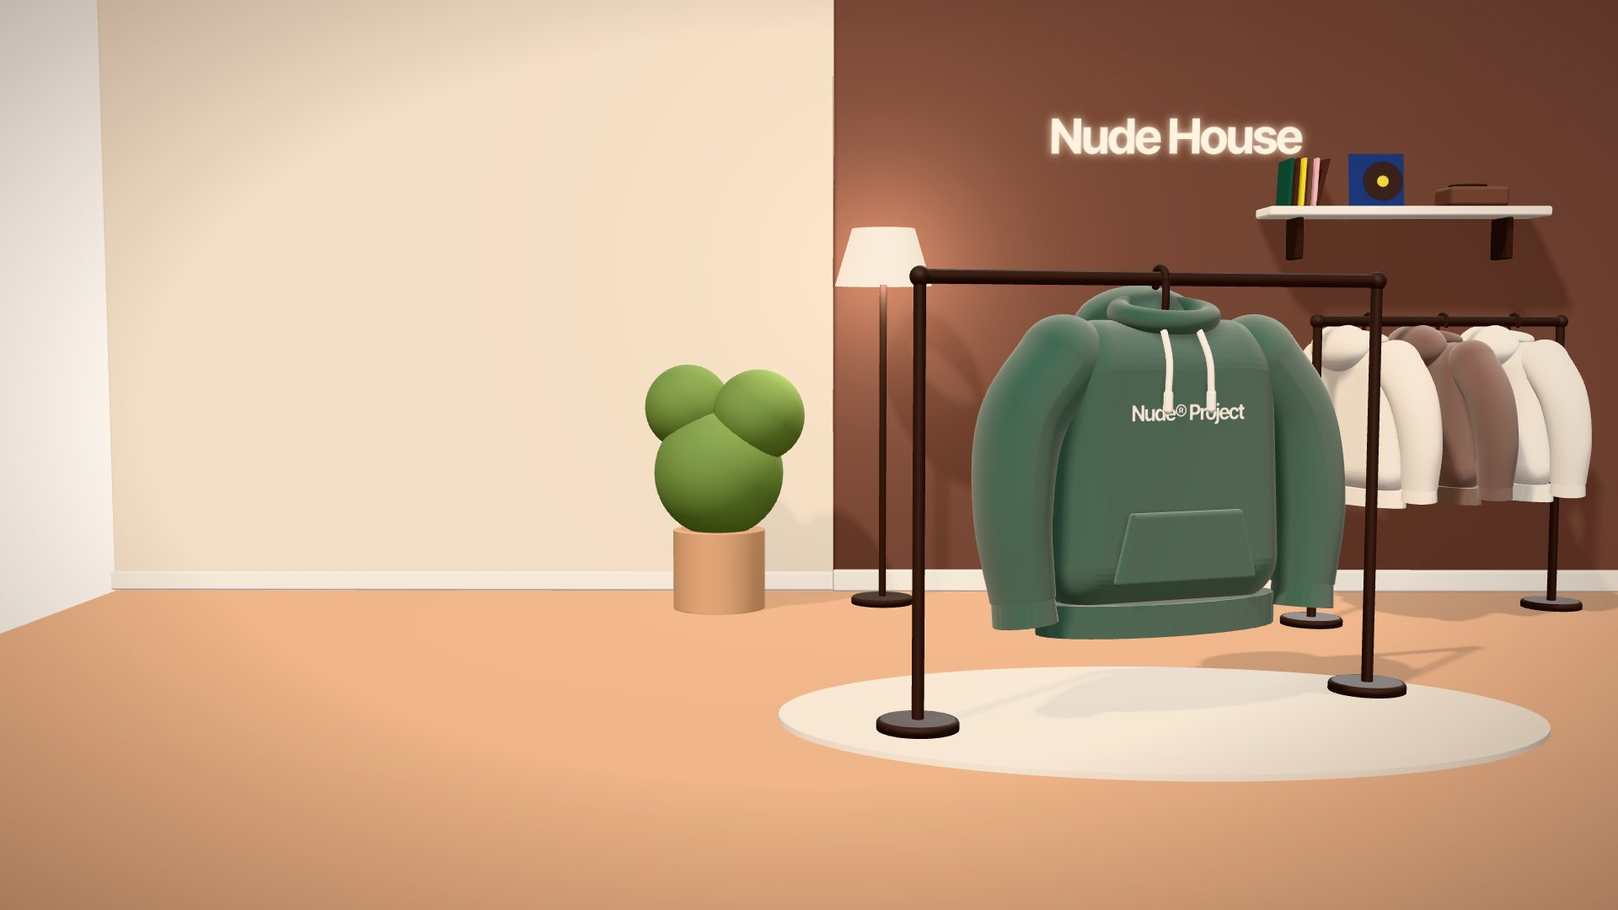
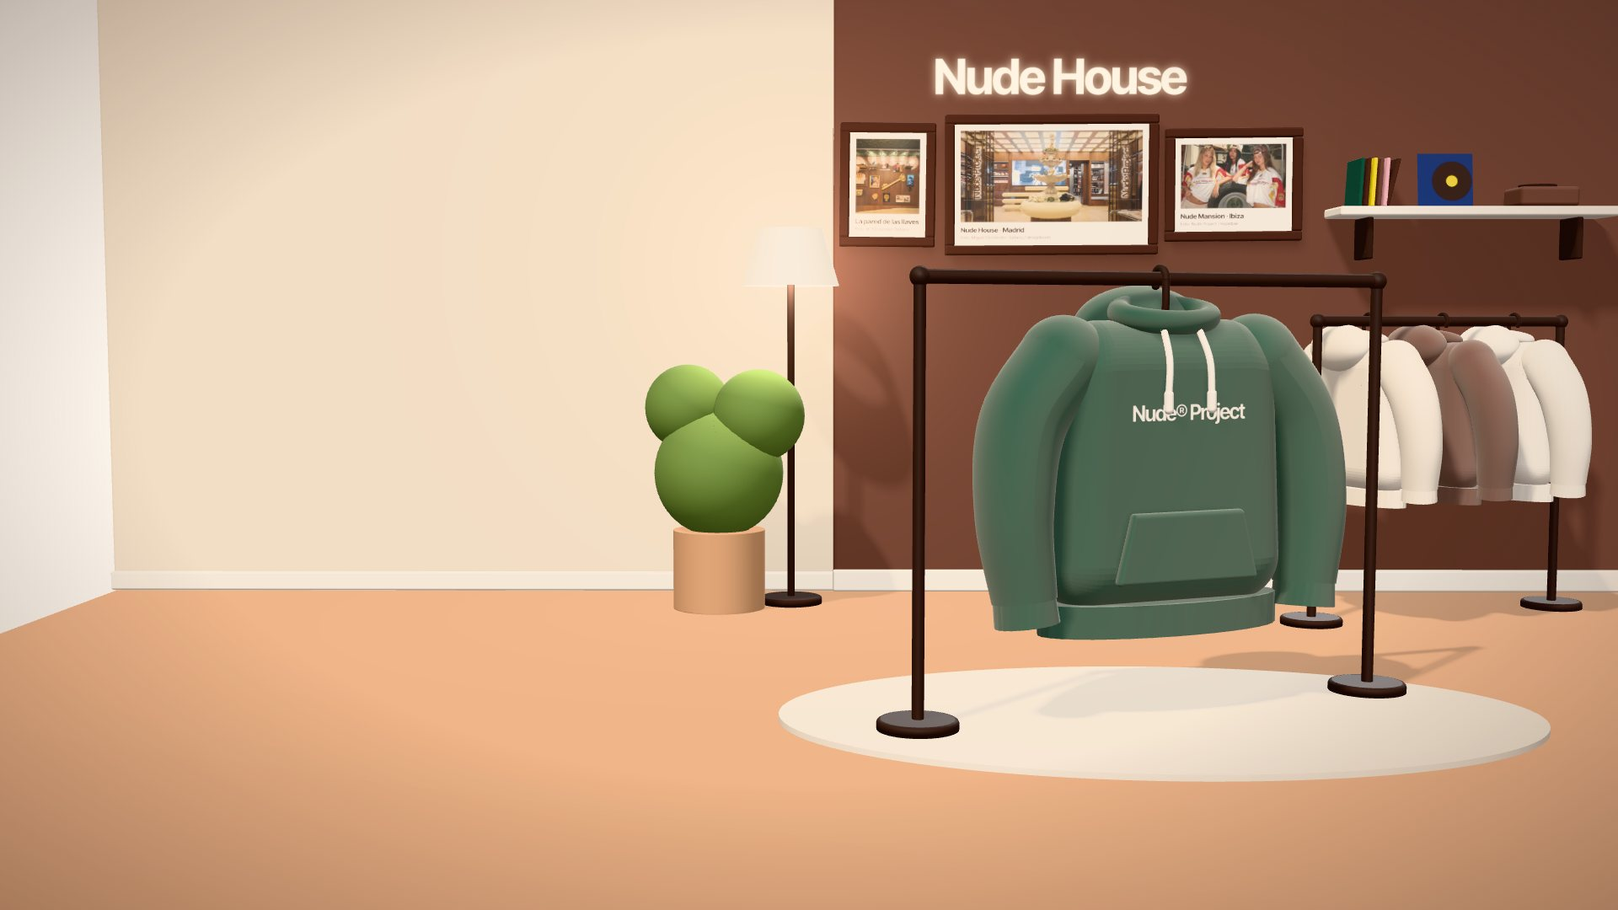
Presentación: pared de cuadros con fotos de la Nude House y de Ibiza (#37)
Las fotos no se pegan sobre la diapositiva: cuelgan enmarcadas en la
pared del salón de la escena 3D, con marco de clay en relieve, vidrio
con reflejo, revelado cálido y el lugar y el crédito impresos en el
paspartú. Una diapositiva nueva del bloque 4 ("Del salón al feed")
acerca la cámara a los cuadros. Se quita el cartel de pendiente y los
estilos del marcador, que ya no se usaban.

- Fotos: dos de designboom (Miguel Fernández-Galiano) y una de Hypebae,
  con sus fuentes en media/README.md y en feeds.json (experiencial).
- El neón corona los cuadros; el estante y la lámpara se corren.
- Renders del bloque 4 regenerados (experiencial y experiencial-fotos).

Changed region(s): [[0.4062, 0.0611, 1.0, 0.6722], [0.7188, 0.4278, 0.7812, 0.4583]]

diff --git a/design-system/escena/mundo.js b/design-system/escena/mundo.js
@@ -14,7 +14,7 @@ import * as THREE from 'three';
 import { RoundedBoxGeometry } from 'three/addons/geometries/RoundedBoxGeometry.js';
 import { colores3d, grupos, tokens } from '../tokens.js';
 import { crearSudadera } from './sudadera.js';
-import { feed, publicacionViral, cartelTienda, neonNudeHouse, etiquetaEnvio, lienzo } from './pantallas.js';
+import { feed, publicacionViral, cartelTienda, neonNudeHouse, etiquetaEnvio, copiaEnmarcada, lienzo } from './pantallas.js';
 
 const C = colores3d;
 const P = C.presentacion;
@@ -483,14 +483,65 @@ function estacionViral(g, { feeds: datos } = {}) {
   };
 }
 
-function estacionExperiencial(g) {
+/** Reflejo diagonal suave para los vidrios (la vidriera de Drop Rush y los cuadros). */
+let texturaReflejo;
+function reflejo() {
+  texturaReflejo ??= lienzo(256, 256, (ctx, w, h) => {
+    const gr = ctx.createLinearGradient(0, 0, w, h);
+    gr.addColorStop(0.25, 'rgba(255,255,255,0)'); gr.addColorStop(0.42, 'rgba(255,255,255,.22)');
+    gr.addColorStop(0.5, 'rgba(255,255,255,.05)'); gr.addColorStop(0.62, 'rgba(255,255,255,.14)'); gr.addColorStop(0.75, 'rgba(255,255,255,0)');
+    ctx.clearRect(0, 0, w, h); ctx.fillStyle = gr; ctx.fillRect(0, 0, w, h);
+  });
+  return texturaReflejo;
+}
+
+/**
+ * Cuadro colgado: marco de varillas con relieve (proyectan sombra sobre la copia), la copia con su paspartú y un
+ * vidrio con reflejo. w × h es el tamaño exterior; el frente de la pared queda en z = 0 del grupo.
+ */
+function cuadro(foto, w, h, { marco = C.marca.cacao, perfil = 0.07, fondoMarco = 0.06 } = {}) {
+  const g = new THREE.Group();
+  g.add(caja(w, h, 0.02, marco, 0, -h / 2, 0.01, 0.01)); // fondo
+  for (const lado of [-1, 1]) {
+    g.add(caja(w, perfil, fondoMarco, marco, 0, lado * (h - perfil) / 2 - perfil / 2, fondoMarco / 2, 0.018));
+    g.add(caja(perfil, h - 2 * perfil + 0.002, fondoMarco, marco, lado * (w - perfil) / 2, -h / 2 + perfil - 0.001, fondoMarco / 2, 0.018));
+  }
+  const iw = w - 2 * perfil, ih = h - 2 * perfil;
+  const copia = new THREE.Mesh(new THREE.PlaneGeometry(iw, ih), new THREE.MeshStandardMaterial({ map: copiaEnmarcada(foto, iw, ih), roughness: 0.62 }));
+  copia.position.z = 0.021;
+  copia.receiveShadow = true;
+  const vidrio = new THREE.Mesh(new THREE.PlaneGeometry(iw, ih), new THREE.MeshBasicMaterial({ map: reflejo(), transparent: true, depthWrite: false, opacity: 0.4 }));
+  vidrio.position.z = fondoMarco - 0.012;
+  vidrio.renderOrder = 3;
+  g.add(copia, vidrio);
+  return g;
+}
+
+/** Fotos de los cuadros del salón; la presentación las reemplaza por las de datos/feeds.json (experiencial). */
+const fotosCasa = [
+  { lugar: 'Nude House · Madrid' },
+  { lugar: 'La pared de las llaves' },
+  { lugar: 'Nude Mansion · Ibiza' },
+];
+
+function estacionExperiencial(g, { feeds: datos } = {}) {
   // Piso de madera, pared clara detrás del texto y pared de acento marrón (el tono de la tienda) detrás de la prenda.
   habitacion(g, { x0: -7, x1: 7, piso: P['casa-piso'], pared: C.juego['fachada-1'] });
   g.add(fondo(caja(8.6, 6, 0.32, P['casa-pared'], 2.7, -0.3, -4.24, 0.04)));
   g.add(fondo(caja(8.6, 0.16, 0.07, C.marca.crema, 2.7, 0, -4.045, 0.02))); // más alto y profundo que el de la pared clara: no comparten caras
   const neon = new THREE.Mesh(new THREE.PlaneGeometry(2.4, 0.6), new THREE.MeshBasicMaterial({ map: neonNudeHouse(), transparent: true, toneMapped: false, depthWrite: false }));
-  neon.position.set(0.9, 3.35, -4.06);
+  neon.position.set(0.05, 3.78, -4.06); // corona la pared de cuadros
   g.add(fondo(neon));
+  // Pared de cuadros: la Nude House de Madrid, la pared de las llaves y la Mansion de Ibiza (pose "fotos").
+  const fotos = (datos?.experiencial?.fotos?.length ? datos.experiencial.fotos : fotosCasa).slice(0, 3);
+  const colgar = [[1.56, 1.02, 0, 3.0], [0.7, 0.9, -1.2, 3.0], [1.0, 0.82, 1.33, 3.0]]; // ancho, alto, x, y (centro)
+  fotos.forEach((foto, i) => {
+    const [w, h, x, y] = colgar[i];
+    const c = cuadro(foto, w, h);
+    c.position.set(x, y, -4.08);
+    c.rotation.z = [0.004, -0.01, 0.008][i]; // apenas torcidos, colgados a mano
+    g.add(fondo(c)); // decoran la pared, como el neón
+  });
   // Alfombra redonda bajo el perchero de la protagonista.
   const alfombra = cilindro(1.9, 0.03, C.marca.arena, 0, 0, 0.1, 96);
   alfombra.scale.z = 0.62;
@@ -551,7 +602,7 @@ function estacionExperiencial(g) {
   estante.add(disco);
   estante.add(caja(0.42, 0.14, 0.34, C.marca['cacao-suave'], 0.5, 0.07, 0, 0.03)); // tocadiscos
   estante.add(cilindro(0.13, 0.02, metal, 0.47, 0.21, 0, 48));
-  estante.position.set(2.5, 2.75, -3.87);
+  estante.position.set(3.0, 2.75, -3.87);
   g.add(estante);
   // Planta en maceta en el rincón y lámpara de pie con luz cálida.
   const planta = new THREE.Group();
@@ -563,12 +614,21 @@ function estacionExperiencial(g) {
   lampara.add(pedestal(metal, 0.22, 0.05, 0.02), varilla(V(0, 0.04, 0), V(0, 2.3, 0), 0.025, metal));
   const pantalla = malla(new THREE.CylinderGeometry(0.22, 0.34, 0.4, 48, 1, true), clay(C.marca.crema, { side: THREE.DoubleSide, emissive: P.foco, emissiveIntensity: 0.35 }), 0, 2.45, 0);
   lampara.add(pantalla);
-  lampara.position.set(-1.25, 0, -3.5);
+  lampara.position.set(-1.9, 0, -3.5); // en la esquina, fuera de la pared de cuadros
   g.add(lampara);
   const luz = new THREE.PointLight(P.foco, 6, 6, 2);
-  luz.position.set(-1.25, 2.4, -3.3);
+  luz.position.set(-1.9, 2.4, -3.3);
   g.add(luz);
-  return { tema: 'crema', encuadre: 'editorial', ancla, escala, calida: true, giroReposo: giro, percha: { pivote, gancho }, entradaFrontal: true, actualizar() {} };
+  return {
+    tema: 'crema', encuadre: 'editorial', ancla, escala, calida: true, giroReposo: giro, percha: { pivote, gancho }, entradaFrontal: true,
+    poses: {
+      // La cámara sube por encima del perchero y queda de frente a la pared de cuadros, con el neón arriba; la
+      // prenda queda detrás de la cámara. Desvíos desde el encuadre editorial: mira en (-1.75, 1.32, 0) y cámara en
+      // (-1.75, 1.92, 8.5).
+      fotos: { mira: V(1.35, 1.53, -4.09), camara: V(1.35, 1.13, -7.09) },
+    },
+    actualizar() {},
+  };
 }
 
 function estacionMetricas(g) {
@@ -698,13 +758,7 @@ function estacionDropRush(g) {
   fachada.add(cartel);
   g.add(fondo(fachada));
   // Vidrio con un reflejo diagonal suave.
-  const reflejo = lienzo(256, 256, (ctx, w, h) => {
-    const gr = ctx.createLinearGradient(0, 0, w, h);
-    gr.addColorStop(0.25, 'rgba(255,255,255,0)'); gr.addColorStop(0.42, 'rgba(255,255,255,.22)');
-    gr.addColorStop(0.5, 'rgba(255,255,255,.05)'); gr.addColorStop(0.62, 'rgba(255,255,255,.14)'); gr.addColorStop(0.75, 'rgba(255,255,255,0)');
-    ctx.clearRect(0, 0, w, h); ctx.fillStyle = gr; ctx.fillRect(0, 0, w, h);
-  });
-  const vidrio = new THREE.Mesh(new THREE.PlaneGeometry(4.4, 3.1), new THREE.MeshBasicMaterial({ map: reflejo, transparent: true, depthWrite: false, opacity: 0.55 }));
+  const vidrio = new THREE.Mesh(new THREE.PlaneGeometry(4.4, 3.1), new THREE.MeshBasicMaterial({ map: reflejo(), transparent: true, depthWrite: false, opacity: 0.55 }));
   vidrio.position.set(0, 2.05, -0.9);
   vidrio.renderOrder = 3;
   g.add(fondo(vidrio));

diff --git a/presentacion/index.html b/presentacion/index.html
@@ -185,11 +185,23 @@
           <span class="np-revelar__linea" style="--i: 2"><span>tienda.</span></span>
         </h2>
         <p class="np-capa__entra">Nude House en Madrid, el Château en Ibiza y las pop-ups en Estados Unidos.</p>
-        <span class="marcador np-capa__entra">Pendiente · Fotos de la Nude House y del Château (fase 5)</span>
       </div>
       <aside class="notas">
-        <p><em>La sudadera queda colgada de una percha en el salón de la Nude House.</em></p>
-        <p>“Ahora, el mundo físico. Para Nude Project una tienda no es solo un lugar de venta: es un espacio de encuentro. Pasa en la <b>Nude House</b> de Madrid y en cada apertura: la música es una selección de la marca, la misma de su lista de Spotify, y la cola con la llave de coleccionista ya es parte del ritual.</p>
+        <p><em>La sudadera queda colgada de una percha en el salón de la Nude House; detrás, la pared de cuadros.</em></p>
+        <p>“Ahora, el mundo físico. Para Nude Project una tienda no es solo un lugar de venta: es un espacio de encuentro. <em><kbd>→</kbd>: la cámara se acerca a los cuadros.</em></p>
+      </aside>
+    </section>
+
+    <section class="np-capa np-diapo np-diapo--escena np-capa--abajo" data-escena="experiencial" data-pose="fotos">
+      <div class="np-diapo__texto">
+        <span class="np-etiqueta np-capa__entra">04 — La casa</span>
+        <h2 class="np-titulo np-revelar">
+          <span class="np-revelar__linea" style="--i: 0"><span>Del salón al feed.</span></span>
+        </h2>
+      </div>
+      <aside class="notas">
+        <p><em>La cámara se acerca a la pared de cuadros: la Nude House de Madrid en el centro, la pared de las llaves a la izquierda y la Mansion de Ibiza a la derecha (fuentes en <code>media/README.md</code>).</em></p>
+        <p>Pasa en la <b>Nude House</b> de Madrid y en cada apertura: la música es una selección de la marca, la misma de su lista de Spotify, y la cola con la llave de coleccionista ya es parte del ritual.</p>
         <p>El evento más ambicioso es el <b>Nude Project Château</b>, en una mansión de Ibiza. Empezó en 2024 y ya va por su tercera edición. En 2025 reunió a más de 30 artistas, actores, deportistas e influencers que sumaban más de 70 millones de seguidores, con una regla: lo que pasa en la mansión se queda en la mansión. Eso genera misterio y exclusividad, y funciona casi como un reality de marca. Además, en la web se pueden comprar los looks que aparecen en las imágenes: el contenido se conecta directo con la venta. Las dos primeras ediciones superaron los 100 millones de interacciones.</p>
         <p>Esa lógica la llevaron a Estados Unidos, con pop-ups en Miami, Los Ángeles y Nueva York. La de Nueva York reunió a unas 400 personas en la apertura y fue la pop-up más vendida de su historia, con moda, música, cine, deporte y hasta una carrera en ropa interior de la marca.</p>
         <p>¿Cómo fortalece esto a la comunidad digital? Es un círculo: el evento genera contenido, el contenido atrae gente a la comunidad y esa comunidad vuelve a las tiendas y a los drops. Hoy el canal físico ya es el 35 % de la facturación.”</p>

diff --git a/design-system/escena/pantallas.js b/design-system/escena/pantallas.js
@@ -381,6 +381,52 @@ export function publicacionViral({ archivo } = {}) {
   return tex;
 }
 
+/**
+ * Copia enmarcada para los cuadros de la Nude House: la foto con un revelado cálido (para que conviva con el clay sin
+ * parecer pegada encima) y, debajo, el paspartú crema con el lugar y el crédito impresos, como en una galería.
+ * foto: { lugar, credito, archivo }. Si no hay archivo o no carga, el nombre del lugar sobre marrón.
+ * ancho × alto es el tamaño de la copia en metros: el margen, el pie y la letra miden lo mismo en todos los cuadros.
+ */
+export function copiaEnmarcada(foto, ancho, alto, { px = 1024 } = {}) {
+  const k = px / ancho; // píxeles por metro
+  const w = px, h = Math.round(alto * k);
+  const m = 0.045 * k, pie = 0.17 * k; // margen del paspartú y alto del pie
+  const fw = w - 2 * m, fh = h - m - pie; // la foto
+  let t = null; // lienzo() ya dibuja una vez al crearla, antes de que t exista
+  t = lienzo(w, h, (ctx) => {
+    ctx.fillStyle = M.crema; ctx.fillRect(0, 0, w, h);
+    ctx.save(); ctx.translate(m, m); ctx.beginPath(); ctx.rect(0, 0, fw, fh); ctx.clip();
+    if (t?.media?.listo) {
+      ctx.filter = 'saturate(.86) contrast(.94) brightness(1.03)';
+      cubrir(ctx, t.media, fw, fh);
+      ctx.filter = 'none';
+      // Revelado: un velo cálido en multiplicar y una viñeta suave, la misma luz de la lámpara del salón.
+      ctx.globalCompositeOperation = 'multiply';
+      ctx.fillStyle = 'rgba(255,226,190,.32)'; ctx.fillRect(0, 0, fw, fh);
+      ctx.globalCompositeOperation = 'source-over';
+      const v = ctx.createRadialGradient(fw / 2, fh / 2, Math.min(fw, fh) * 0.35, fw / 2, fh / 2, Math.hypot(fw, fh) * 0.62);
+      v.addColorStop(0, 'rgba(46,25,20,0)'); v.addColorStop(1, 'rgba(46,25,20,.32)');
+      ctx.fillStyle = v; ctx.fillRect(0, 0, fw, fh);
+    } else {
+      ctx.fillStyle = M['cacao-suave']; ctx.fillRect(0, 0, fw, fh);
+      ctx.fillStyle = M.arena; ctx.textAlign = 'center'; ctx.textBaseline = 'middle';
+      ctx.font = fuente(800, 0.06 * k); espaciado(ctx, -0.002 * k); ctx.fillText(foto.lugar ?? '', fw / 2, fh / 2);
+    }
+    ctx.restore();
+    // Bisel del paspartú: una línea de sombra alrededor del corte.
+    ctx.strokeStyle = 'rgba(46,25,20,.18)'; ctx.lineWidth = 0.003 * k; ctx.strokeRect(m, m, fw, fh);
+    // Pie: el lugar y, debajo, el crédito.
+    ctx.fillStyle = M.cacao; ctx.textBaseline = 'alphabetic'; ctx.textAlign = 'left';
+    ctx.font = fuente(800, 0.05 * k); espaciado(ctx, -0.001 * k); ctx.fillText(foto.lugar ?? '', m, m + fh + 0.074 * k);
+    if (foto.credito) {
+      ctx.globalAlpha = 0.7; ctx.font = fuenteTexto(500, 0.03 * k); espaciado(ctx, 0);
+      ctx.fillText(foto.credito, m, m + fh + 0.122 * k); ctx.globalAlpha = 1;
+    }
+  });
+  t.media = cargarMedia(foto.archivo, () => t.redibujar());
+  return t;
+}
+
 export function cartelTienda() {
   return lienzo(1024, 220, (ctx, w, h) => {
     ctx.fillStyle = M.cacao; ctx.fillRect(0, 0, w, h);

diff --git a/presentacion/estilos.css b/presentacion/estilos.css
@@ -11,18 +11,6 @@ body { display: grid; place-items: center; }
 /* Etiquetas de la vista desarmada dentro de su diapositiva: se ubican sobre todo el escenario. */
 .np-capa .np-etiquetas { position: absolute; inset: 0; }
 
-/* Marcador de contenido pendiente (plantilla de la fase 1): se reemplaza por el componente real. */
-.marcador {
-  align-self: flex-start;
-  padding: 0.7em 1em;
-  border: 1px dashed currentColor;
-  font: var(--np-peso-medio) 0.95cqw / 1.3 var(--np-fuente-texto);
-  letter-spacing: var(--np-interletra-etiqueta);
-  text-transform: uppercase;
-  color: var(--np-tinta-suave);
-}
-.np-capa.np-diapo--activa .marcador.np-capa__entra { opacity: 0.75; }
-
 /* ============ Portada: título abajo a la izquierda y lugar del QR abajo a la derecha ============ */
 .portada__pie { display: flex; justify-content: space-between; align-items: flex-end; gap: 4cqw; }
 .np-capa .portada__titulo .np-titulo { font-size: 4.6cqw; }
@@ -166,6 +154,5 @@ body { display: grid; place-items: center; }
 [data-impresion] :is(.hype, .ingreso, .votacion, .votacion-estado, .sala-juego) { display: none; }
 [data-impresion] .np-capa * { animation: none !important; transition: none !important; }
 [data-impresion] .np-capa .np-capa__entra { opacity: 1; transform: none; }
-[data-impresion] .np-capa .marcador { opacity: 0.75; }
 [data-impresion] .np-etiquetas { display: none; } /* ya están en la imagen de respaldo */
 @media print { [data-impresion] .np-capas { gap: 0; } }

diff --git a/presentacion/deck.js b/presentacion/deck.js
@@ -45,14 +45,14 @@ if (!imprimiendo) {
   }
 }
 /**
- * Publicaciones de los feeds de EGC vs. UGC y de la pared viral (datos/feeds.json). Las rutas de fotos y clips son relativas al
+ * Publicaciones de los feeds de EGC vs. UGC, de la pared viral y de los cuadros de la Nude House (datos/feeds.json). Las rutas de fotos y clips son relativas al
  * archivo. Si no se puede leer, el motor usa las publicaciones de prueba del design system.
  */
 async function leerFeeds() {
   const url = new URL('./datos/feeds.json', location.href);
   try {
     const datos = await (await fetch(url)).json();
-    for (const pub of [...(datos.egc ?? []), ...(datos.ugc ?? []), datos.viral]) if (pub?.archivo) pub.archivo = new URL(pub.archivo, url).href;
+    for (const pub of [...(datos.egc ?? []), ...(datos.ugc ?? []), datos.viral, ...(datos.experiencial?.fotos ?? [])]) if (pub?.archivo) pub.archivo = new URL(pub.archivo, url).href;
     return datos;
   } catch (error) {
     console.warn('No se pudo leer datos/feeds.json: se usan las publicaciones de prueba', error);

diff --git a/presentacion/presentador.html b/presentacion/presentador.html
@@ -26,7 +26,6 @@
     .miniatura .np-capa { visibility: visible; background: var(--np-fondo) var(--respaldo, none) center / cover no-repeat; }
     .miniatura .np-capa * { animation: none !important; transition: none !important; }
     .miniatura .np-capa .np-capa__entra { opacity: 1; transform: none; }
-    .miniatura .np-capa .marcador { opacity: 0.75; }
     .miniatura__fin { aspect-ratio: 16 / 9; display: grid; place-items: center; margin: 0; color: var(--np-tinta-suave); }
     .lado .miniatura { opacity: 0.85; }
     .acciones { display: flex; flex-wrap: wrap; gap: var(--np-espacio-2); }

diff --git a/presentacion/PLANIFICACION.md b/presentacion/PLANIFICACION.md
@@ -133,7 +133,7 @@ Se arma en Three.js con piezas redondeadas (ver [`escena/sudadera.js`](../design
 | **1. La historia** | **La habitación**: ventana con luz, cama y una pila de cajas de envío. La sudadera levita sobre la caja abierta del pedido #0001 (solapas abiertas, papel de seda, etiqueta de envío y una luz cálida que sale de adentro). En la segunda diapositiva, los hitos 600 € → 26 M€ en la columna del texto. | Crema |
 | **2. EGC vs. UGC** | Dos **celulares gigantes** en su soporte, con feeds verticales que pasan solos (publicaciones de `datos/feeds.json`, `F` los pausa) y una etiqueta debajo de cada uno; la sudadera, en el centro sobre un pedestal, gira hacia uno y otro. | Arena |
 | **3. Marketing viral** | Una **pared de 24 celulares** con la publicación de *Out of Office* y su contador de likes, y **corazones *clay*** que brotan de las pantallas como likes en vivo. La prenda se corre hacia el texto y tapa apenas una esquina de la pared. En el texto, la cifra cuenta hasta +500.000. | Rosa |
-| **4. Marketing experiencial** | **El salón de la Nude House**: pared de acento marrón con el neón *Nude House*, piso de madera, alfombra, perchero con sudaderas (cada una en su percha), estante con vinilos y tocadiscos, planta y lámpara de pie. La sudadera cuelga de frente en un perchero de exhibición: la percha sale por el escote y el gancho abraza la barra. | Bosque |
+| **4. Marketing experiencial** | **El salón de la Nude House**: pared de acento marrón con el neón *Nude House* sobre una pared de cuadros (fotos reales de la Nude House de Madrid y de la Mansion de Ibiza, enmarcadas, con su crédito en el paspartú; la segunda diapositiva acerca la cámara hasta ellas), piso de madera, alfombra, perchero con sudaderas (cada una en su percha), estante con vinilos y tocadiscos, planta y lámpara de pie. La sudadera cuelga de frente en un perchero de exhibición: la percha sale por el escote y el gancho abraza la barra. | Bosque |
 | **5. Métricas** | **Vista desarmada:** capucha, mangas, bolsillo y cuerpo se separan, y cada pieza lleva una **etiqueta flotante** con un dato. En la segunda diapositiva la cámara se corre a un **gráfico de barras hecho con pilas de sudaderas dobladas** (100 mil seguidores cada una, 2024 contra hoy) y la sudadera, armada, corona la más alta. | Marino |
 | **6. Objetivo comunicacional** | **Plano medio** de la sudadera sola, girada hacia la frase de Bruno, con el logo bordado bien grande; la frase en la columna libre de la izquierda. | Cacao |
 | **7. Desafíos** | Una **balanza** *clay*: cada plato cuelga de un aro con tres hilos que quedan por fuera de lo que lleva. De un lado, una sola sudadera (*exclusividad*); del otro, una pila (*accesibilidad*), con una etiqueta debajo de cada plato. Se inclina según la votación en vivo. | Mostaza |
@@ -332,7 +332,7 @@ La presentación es un **proyector más de la sala**: la crea (o vuelve a la gua
 ## 8. Contenido pendiente (a cargo del equipo)
 
 - [x] Texto de cada bloque y notas del orador (ver el [guion](GUION.md))
-- [ ] Fotos de la Nude House y del Château (bloque 4)
+- [x] Fotos de la Nude House y del Château (bloque 4) *(tres cuadros en la pared del salón; fuentes en [media/README.md](media/README.md))*
 - [x] 4 publicaciones **EGC** y 4 **UGC** para los feeds (clips en [`media/`](media/README.md), con cuenta y vistas)
 - [x] Campaña o publicación viral a analizar: *Out of Office* (agosto de 2025)
 - [ ] Métricas públicas actualizadas, con sus fuentes (relevadas a octubre de 2026; falta citar las fuentes)

diff --git a/presentacion/media/README.md b/presentacion/media/README.md
@@ -1,9 +1,9 @@
 # Medios de la presentación
 
-Fotos y clips que usan los feeds de EGC vs. UGC y la pared viral ([`../datos/feeds.json`](../datos/feeds.json), campo `archivo`, por ejemplo `"../media/egc-dia1.mp4"`).
+Fotos y clips que usan los feeds de EGC vs. UGC, la pared viral y los cuadros de la Nude House ([`../datos/feeds.json`](../datos/feeds.json), campo `archivo`, por ejemplo `"../media/egc-dia1.mp4"`).
 
 - **Clips:** MP4 (H.264), 720p o menos, vertical 9:16, 5 a 10 s, sin audio; menos de 2 MB cada uno. Se reproducen en silencio y en bucle solo mientras se ven.
-- **Fotos:** JPG o WebP de 1600 px como máximo, verticales.
+- **Fotos:** JPG o WebP de 1600 px como máximo, verticales (las de los cuadros, en la proporción que sea: se recortan al marco).
 - Todo va dentro del repositorio: nada se carga en vivo desde Instagram o TikTok.
 - Cada publicación muestra su cuenta de origen (uso académico).
 
@@ -28,3 +28,15 @@ Recortados de TikTok (8 s aprox., sin audio). Las vistas se tomaron el 18/10/202
 | UGC | `ugc-outfit-tank.mp4` | @nataliesmirnakos | 2 a 10 s | [TikTok](https://www.tiktok.com/@nataliesmirnakos/video/7647728671951817991) |
 | UGC | `ugc-outfit-pullover.mp4` | @santiabarzaa | 10,5 a 18,5 s | [TikTok](https://www.tiktok.com/@santiabarzaa/video/7497715567646870790) |
 | Viral | `viral-out-of-office.mp4` | @nudeproject | 1,2 a 6,2 s, recortado sobre la remera para que se lea la frase | [TikTok](https://www.tiktok.com/@nudeproject/video/7540362569878424854) |
+
+## Fotos de los cuadros (bloque 4)
+
+Cuelgan enmarcadas en la pared del salón de la Nude House (`experiencial` en `feeds.json`). La escena les da un revelado cálido e imprime el lugar y el crédito en el paspartú. Descargadas el 18/10/2026.
+
+| Cuadro | Archivo | Crédito | Publicación |
+|---|---|---|---|
+| Centro | `nude-house-madrid.jpg` | Miguel Fernández-Galiano (designboom); reducida de 1800 a 1600 px | [designboom, abril de 2025](https://www.designboom.com/architecture/el-departamento-nude-project-madrid-flagship-hollywood-style-open-mansion-04-26-2025/) |
+| Izquierda | `nude-house-llaves.jpg` | Miguel Fernández-Galiano (designboom) | [designboom, abril de 2025](https://www.designboom.com/architecture/el-departamento-nude-project-madrid-flagship-hollywood-style-open-mansion-04-26-2025/) |
+| Derecha | `ibiza-mansion.jpg` | Nude Project (Hypebae no da otro crédito) | [Hypebae, julio de 2026](https://hypebae.com/2026/7/nude-project-ibiza-nude-mansion-collections-lena-mahfouf-trueno-where-to-buy) |
+
+> Las fuentes llaman *Nude Mansion* al evento de Ibiza; el guion lo llama *Château*.

diff --git a/presentacion/GUION.md b/presentacion/GUION.md
@@ -79,7 +79,7 @@ La lección: la viralidad parece casual, pero está diseñada. Eligen el momento
 
 ## 4. Marketing experiencial (~2:00)
 
-*[La sudadera queda colgada de una percha en el salón de la Nude House.]*
+*[La sudadera queda colgada de una percha en el salón de la Nude House; detrás, la pared de cuadros. Después de la primera frase (“…es un espacio de encuentro”), la cámara se acerca a los cuadros (“Del salón al feed”): la Nude House de Madrid en el centro, la pared de las llaves a la izquierda y la Mansion de Ibiza a la derecha.]*
 
 "Ahora, el mundo físico. Para Nude Project una tienda no es solo un lugar de venta: es un espacio de encuentro. Pasa en la **Nude House** de Madrid y en cada apertura: la música es una selección de la marca, la misma de su lista de Spotify, y la cola con la llave de coleccionista ya es parte del ritual.
 
